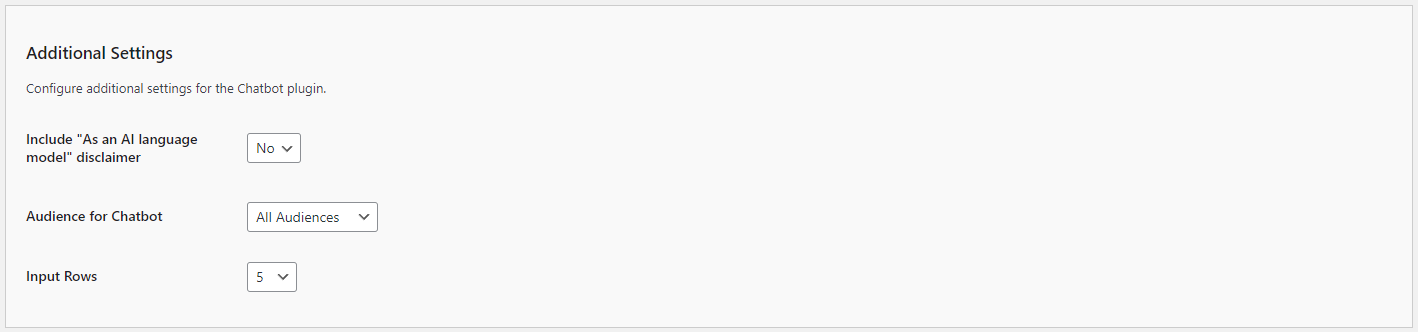
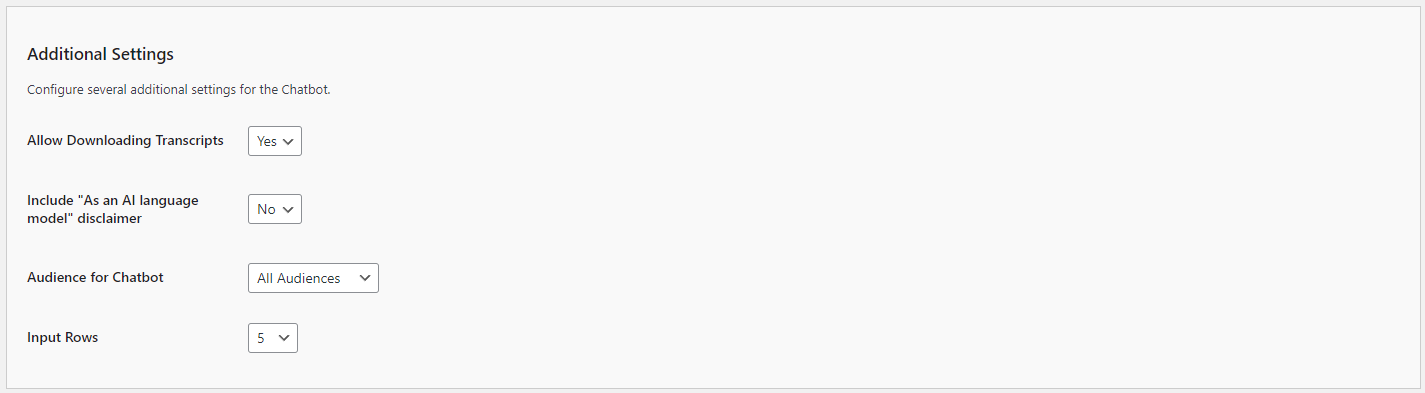
V2.0.3 - Minor updates options and images sizes

diff --git a/assets/js/chatbot-chatgpt.js b/assets/js/chatbot-chatgpt.js
@@ -1106,17 +1106,40 @@ jQuery(document).ready(function ($) {
     }
 
     // Add this function to scroll to the bottom of the conversation - Ver 1.2.1
-    function scrollToBottom() {
+    // function scrollToBottom() {
+    //     setTimeout(() => {
+    //         // DIAG - Diagnostics - Ver 1.5.0
+    //         // if (chatbotSettings.chatbot_chatgpt_diagnostics === 'On') {
+    //         //     console.log('Chatbot: NOTICE: scrollToBottom");
+    //         // }
+    //         if (conversation && conversation.length > 0) {
+    //             conversation.scrollTop(conversation[0].scrollHeight);
+    //         }
+    //     }, 100);  // delay of 100 milliseconds  
+    // 
+    // }
+
+    // Add this function to scroll to the top of the last chatbot response - Ver 2.0.3
+    function scrollToLastBotResponse() {
         setTimeout(() => {
             // DIAG - Diagnostics - Ver 1.5.0
             // if (chatbotSettings.chatbot_chatgpt_diagnostics === 'On') {
-            //     console.log('Chatbot: NOTICE: scrollToBottom");
+            //     console.log('Chatbot: NOTICE: scrollToLastBotResponse');
             // }
-            if (conversation && conversation.length > 0) {
-                conversation.scrollTop(conversation[0].scrollHeight);
-            }
-        }, 100);  // delay of 100 milliseconds  
 
+            const botTexts = document.querySelectorAll('.bot-text');
+            if (botTexts && botTexts.length > 0) {
+                const lastBotText = botTexts[botTexts.length - 1];
+                const conversation = document.querySelector('#conversation'); // Assuming conversation is the container ID
+                if (conversation) {
+                    const topPosition = lastBotText.offsetTop;
+                    conversation.scrollTo({
+                        top: topPosition,
+                        behavior: 'smooth' // For smooth scrolling
+                    });
+                }
+            }
+        }, 100);  // delay of 100 milliseconds
     }
    
     // Load conversation from local storage if available - Ver 1.2.0

diff --git a/includes/chatbot-shortcode.php b/includes/chatbot-shortcode.php
@@ -337,6 +337,9 @@ function chatbot_chatgpt_shortcode( $atts = [], $content = null, $tag = '' ) {
     // Allow Read Aloud - Ver 1.9.0
     $chatbot_chatgpt_read_aloud_option = esc_attr(get_option('chatbot_chatgpt_read_aloud_option', 'yes'));
 
+    // Allo Download Transcript - Ver 2.0.3
+    $chatbot_chatgpt_allow_download_transcript = esc_attr(get_option('chatbot_chatgpt_allow_download_transcript', 'Yes'));
+
     // Assume that the chatbot is NOT using KFlow - Ver 1.9.5
     $use_flow = 'No';
 
@@ -540,9 +543,11 @@ function chatbot_chatgpt_shortcode( $atts = [], $content = null, $tag = '' ) {
                     <img src="<?php echo plugins_url('../assets/icons/text_to_speech_FILL0_wght400_GRAD0_opsz24.png', __FILE__); ?>" alt="Read Out Loud">
                 </button>
             <?php endif; ?>
-            <button id="chatbot-chatgpt-download-transcript-btn" title="Download Transcript">
-                <img src="<?php echo plugins_url('../assets/icons/download_FILL0_wght400_GRAD0_opsz24.png', __FILE__); ?>" alt="Download Transcript">
-            </button>
+            <?php if ($chatbot_chatgpt_allow_download_transcript == 'Yes'): ?>
+                <button id="chatbot-chatgpt-download-transcript-btn" title="Download Transcript">
+                    <img src="<?php echo plugins_url('../assets/icons/download_FILL0_wght400_GRAD0_opsz24.png', __FILE__); ?>" alt="Download Transcript">
+                </button>
+            <?php endif; ?>
         </div>
         <button id="chatgpt-open-btn" style="display: none;">
         <!-- <i class="dashicons dashicons-format-chat"></i> -->
@@ -658,9 +663,11 @@ function chatbot_chatgpt_shortcode( $atts = [], $content = null, $tag = '' ) {
                         <img src="<?php echo plugins_url('../assets/icons/text_to_speech_FILL0_wght400_GRAD0_opsz24.png', __FILE__); ?>" alt="Read Out Loud">
                     </button>
                 <?php endif; ?>
-                <button id="chatbot-chatgpt-download-transcript-btn" title="Download Transcript">
-                    <img src="<?php echo plugins_url('../assets/icons/download_FILL0_wght400_GRAD0_opsz24.png', __FILE__); ?>" alt="Download Transcript">
-                </button>
+                <?php if ($chatbot_chatgpt_allow_download_transcript == 'Yes'): ?>
+                    <button id="chatbot-chatgpt-download-transcript-btn" title="Download Transcript">
+                        <img src="<?php echo plugins_url('../assets/icons/download_FILL0_wght400_GRAD0_opsz24.png', __FILE__); ?>" alt="Download Transcript">
+                    </button>
+                <?php endif; ?>
             </div>
             <!-- Custom buttons - Ver 1.6.5 -->
             <?php

diff --git a/includes/settings/chatbot-settings-setup.php b/includes/settings/chatbot-settings-setup.php
@@ -117,6 +117,17 @@ function chatbot_chatgpt_subsequent_greeting_callback($args) {
     <?php
 }
 
+// Option to allow downloading transcripts - Ver 2.0.3
+function chatbot_chatgpt_allow_download_transcript_callback($args) {
+    $chatbot_chatgpt_allow_download_transcript = esc_attr(get_option('chatbot_chatgpt_allow_download_transcript', 'Yes'));
+    ?>
+    <select id="chatbot_chatgpt_allow_download_transcript" name="chatbot_chatgpt_allow_download_transcript">
+        <option value="Yes" <?php selected( $chatbot_chatgpt_allow_download_transcript, 'Yes' ); ?>><?php echo esc_html( 'Yes' ); ?></option>
+        <option value="No" <?php selected( $chatbot_chatgpt_allow_download_transcript, 'No' ); ?>><?php echo esc_html( 'No' ); ?></option>
+    </select>
+    <?php    
+}
+
 // Option to remove OpenAI disclaimer - Ver 1.4.1
 function chatbot_chatgpt_disclaimer_setting_callback($args) {
     $chatbot_chatgpt_disclaimer_setting = esc_attr(get_option('chatbot_chatgpt_disclaimer_setting', 'Yes'));
@@ -172,6 +183,7 @@ function chatbot_chatgpt_settings_setup_init() {
     register_setting('chatbot_chatgpt_settings', 'chatbot_chatgpt_bot_prompt');
     register_setting('chatbot_chatgpt_settings', 'chatbot_chatgpt_initial_greeting');
     register_setting('chatbot_chatgpt_settings', 'chatbot_chatgpt_subsequent_greeting');
+    register_setting('chatbot_chatgpt_settings', 'chatbot_chatgpt_allow_download_transcript');
     register_setting('chatbot_chatgpt_settings', 'chatbot_chatgpt_disclaimer_setting');
     register_setting('chatbot_chatgpt_settings', 'chatbot_chatgpt_audience_choice');
     register_setting('chatbot_chatgpt_settings', 'chatbot_chatgpt_input_rows');
@@ -246,6 +258,15 @@ function chatbot_chatgpt_settings_setup_init() {
         'Additional Settings',
         'chatbot_chatgpt_additional_setup_section_callback',
         'chatbot_chatgpt_additional_setup_settings'
+    );
+
+    // Option to allow downloading transcripts - Ver 2.0.3
+    add_settings_field(
+        'chatbot_chatgpt_allow_download_transcript',
+        'Allow Downloading Transcripts',
+        'chatbot_chatgpt_allow_download_transcript_callback',
+        'chatbot_chatgpt_additional_setup_settings',
+        'chatbot_chatgpt_additional_setup_section'
     );
 
     // Option to remove the OpenAI disclaimer - Ver 1.4.1

diff --git a/includes/utilities/chatbot-link-and-image-handling.php b/includes/utilities/chatbot-link-and-image-handling.php
@@ -22,7 +22,7 @@ function chatbot_chatgpt_check_for_links_and_images( $response ) {
     $response = preg_replace_callback('/(!)?\[([^\]]+)\]\(([^)]+)\)/', function($matches) {
         // If the first character is "!", it's an image
         if ($matches[1] === "!") {
-            return "<span><center><img src='" . $matches[3] . "' alt='" . $matches[2] . "' style='max-width: 95%;' /></center></span>";
+            return "<span><center><img src='" . $matches[3] . "' alt='" . $matches[2] . "' style='max-width: 95%; width: auto;' /></center></span>";
         } else {
             // Otherwise, it's a link
             return "<span><a href='" . $matches[3] . "' target='_blank'>" . $matches[2] . "</a></span>";

diff --git a/documentation/settings/settings.md b/documentation/settings/settings.md
@@ -40,17 +40,22 @@ The General Settings allow you to customize the basic behavior and appearance of
 
 ![Additional Settings](additional-settings.png)
 
-1. **Include "As an AI language model" disclaimer**:
+1. **Allow Downloading Transcripts**:
+   - **Description**: This toggle allows you to allow chatbot users to download transcripts.
+   - **Options**: `Yes` or `No`.
+   - **Selection**: Choose `Yes` if you want to allow a transcript downaload.
+
+2. **Include "As an AI language model" disclaimer**:
    - **Description**: This toggle allows you to include a disclaimer about the AI nature of the chatbot.
    - **Options**: `Yes` or `No`.
    - **Selection**: Choose `Yes` if you want to display this disclaimer, which can help manage user expectations.
 
-2. **Audience for Chatbot**:
+3. **Audience for Chatbot**:
    - **Description**: This setting allows you to specify the intended audience for the chatbot.
    - **Options**: `All Audiences`, `Adults Only`, etc.
    - **Selection**: Choose the appropriate audience based on the content and purpose of your chatbot.
 
-3. **Input Rows**:
+4. **Input Rows**:
    - **Description**: This setting determines the number of rows in the chatbot input field.
    - **Options**: Set a numeric value.
    - **Selection**: Choose a value like `5` to allow more space for user input, or adjust based on your layout preferences.
